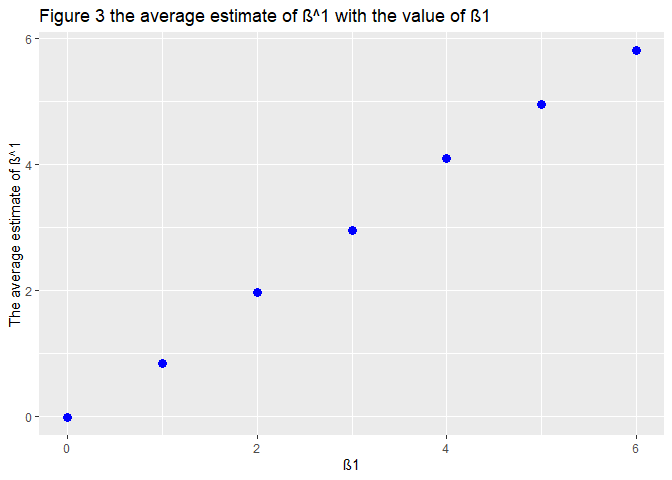
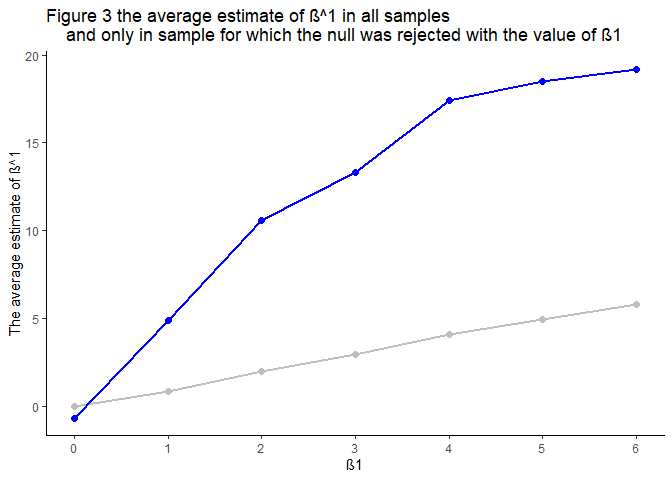
opt the figure3

diff --git a/p8105_hw5_yh2736.md b/p8105_hw5_yh2736.md
@@ -218,71 +218,94 @@ sim_results = bind_rows(output)
 ``` r
 ###draw a plot showing the proportion of times the null was rejected on the y axis 
 ###and the true value of β1 on the x axis
-propo_dataset <- sim_results %>% 
+propo_dataset <-  sim_results %>% 
   group_by(beta1) %>% 
   summarize(
-    propotion = sum(p_value < 0.05) / n()
-    )
+    propotion = round(sum(p_value < 0.05) / n(), digits = 3)
+    ) 
+  
 
 mean_dataset <- sim_results %>% 
+  filter(p_value < 0.05) %>% 
   group_by(beta1) %>% 
   summarize(
-    propotion = sum(p_value < 0.05) / n(),
     mean = mean(estimate)
-  ) %>% 
-  filter(
-    propotion < 1.0
   ) %>% 
   select(beta1, mean)
 
-left_join(propo_dataset, mean_dataset) %>% 
+propo_dataset %>% 
   ggplot(aes(x = beta1)) +
   geom_col(aes(y = propotion), 
            width = 0.5, fill = "grey") +
-  geom_point(aes(y = mean / 60), 
-             size = 5, color = "blue") +
   scale_y_continuous(
-    name = "Proportion", 
-    sec.axis = sec_axis(~ . *60,
-                        name =  "The mean value of estimate"
-                        ),
-    labels = function(b) {round(b, digits = 2)}
+    name = "Proportion"
   ) +
   labs(
-    title = "Figure 2 the proportion of times the null was rejected and the mean value of estimate with different β1",
+    title = "Figure 2 the proportion of times the null was rejected with different β1",
     fill = "Propotion"
   ) +
   xlab("β1") +
-  ylab("") +
   theme(
-    plot.title = element_text(size = 10),
-    axis.title.y.left = element_text(color = "grey"),
-    axis.title.y.right = element_text(color = "blue")
-  )
+    panel.background = element_blank(),
+    panel.grid.major = element_blank(),
+    axis.line.x = element_line(color = "black", size = 0.5),
+    axis.line.y = element_line(color = "black", size = 0.5)
+  ) +
+  scale_x_continuous(
+    breaks = seq(0, 6, 1)
+  ) +
+  geom_text(aes(y = propotion, label = propotion), 
+            size = 4, 
+            color = "red",
+            position = "dodge")
 ```
 
-    ## Joining, by = "beta1"
+    ## Warning: Width not defined. Set with `position_dodge(width = ?)`
 
 ![](p8105_hw5_yh2736_files/figure-gfm/unnamed-chunk-5-1.png)<!-- -->
 
 Given the same sample size, with the increase of effect size, the power
-of the test increase. explain:
+of the test increase.
 
 ``` r
 ###Make a plot showing the average estimate of β^1 on the y axis
 ##and the true value of β1 on the x axis
-sim_results %>% 
+mean_est_with_all_sample <- sim_results %>% 
   group_by(beta1) %>% 
   summarize(
-    mean_beta1 = mean(estimate)
-  ) %>% 
-  ggplot(aes(x = beta1, y = mean_beta1)) +
-  geom_point(size = 3, color = "blue") +
+    mean_beta1 = round(mean(estimate),digits = 2)
+  ) 
+
+mean_est_only_null <- sim_results %>% 
+  filter(p_value < 0.05) %>% 
+  group_by(beta1) %>% 
+  summarize(
+    mean_beta1_only_null = round(mean(estimate), digits = 2)
+  )
+
+left_join(mean_est_with_all_sample, mean_est_only_null) %>% 
+  ggplot(aes(x = beta1)) +
+  geom_point(aes(y = mean_beta1), color = "grey", size = 2) +
+  geom_line(aes(y = mean_beta1), color = "grey", size = 1) +
+  geom_point(aes(y = mean_beta1_only_null), color = "blue", size = 2) +
+  geom_line(aes(y = mean_beta1_only_null), color = "blue", size = 1) +
   labs(
-    title = "Figure 3 the average estimate of β^1 with the value of β1"
+    title = "Figure 3 the average estimate of β^1 in all samples 
+    and only in sample for which the null was rejected with the value of β1"
   ) +
   xlab("β1") +
-  ylab("The average estimate of β^1") 
+  ylab("The average estimate of β^1") +
+    theme(
+    panel.background = element_blank(),
+    panel.grid.major = element_blank(),
+    axis.line.x = element_line(color = "black", size = 0.5),
+    axis.line.y = element_line(color = "black", size = 0.5)
+  ) +
+  scale_x_continuous(
+    breaks = seq(0, 6, 1)
+  ) 
 ```
+
+    ## Joining, by = "beta1"
 
 ![](p8105_hw5_yh2736_files/figure-gfm/unnamed-chunk-6-1.png)<!-- -->
